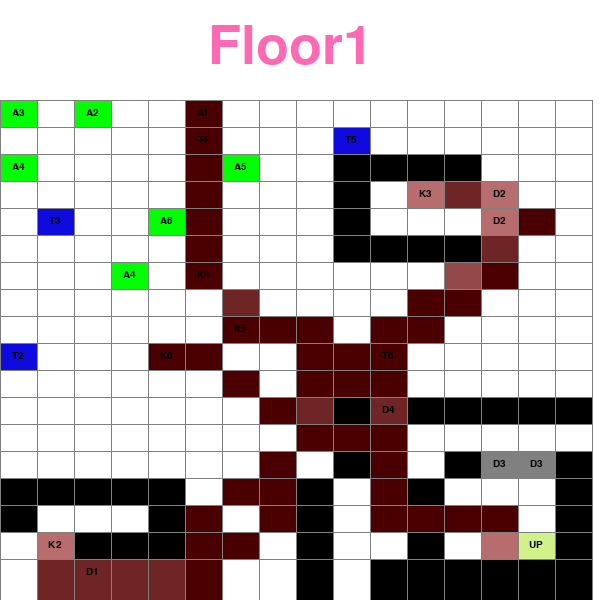
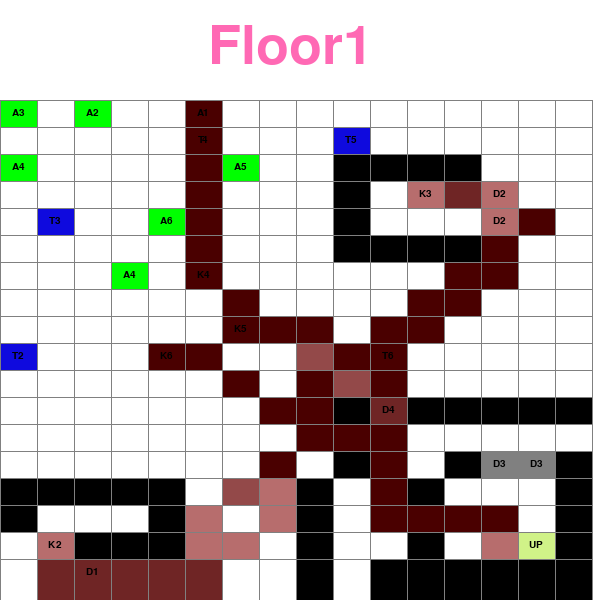
agents behaviors completion

diff --git a/level4.py b/level4.py
@@ -737,11 +737,14 @@ def define_target(agent, grid):
                             target = (grid[k][i][j])
                             return target
     
-def get_all_path(agent_list, path_list, main_path, grid, collected_key, lim):
+def get_all_path(agent_list, path_list, main_path, grid, collected_key):
     fake_key = []
     agent_cur_pos = []
-    save_path = main_path
-    
+
+    save_path = []
+    for pos in main_path:
+        save_path.append(pos)
+
     for agent in agent_list:
         tmp_path = []
         tmp_path.append(agent)
@@ -750,8 +753,13 @@ def get_all_path(agent_list, path_list, main_path, grid, collected_key, lim):
 
     end = main_path[-1]
 
-    k = 0
     i = 1
+    k = 0
+    check = False
+    h = []
+    for agent in agent_list:
+        h.append(0)
+
     while main_path[i - 1] != end:
         j = 0
         main_path[i].neighbors(grid, collected_key, False)
@@ -759,28 +767,37 @@ def get_all_path(agent_list, path_list, main_path, grid, collected_key, lim):
             if j == 0:
                 if main_path[i] in agent_cur_pos:
                     path.append(path[i - 1])
-                    main_path.insert(i, main_path[i])
+                    main_path.insert(i, main_path[i - 1])
                     k += 1
                 else:
                     path.append(main_path[i])
                     agent_cur_pos[j] = main_path[i]
+                    k = 0
             else:
                 agent_cur_pos[j].neighbors_check_agent(grid, fake_key, True, agent_cur_pos)
-                tmp_neighbor = random.choice(agent_cur_pos[j].neighbor)
-                if tmp_neighbor in main_path[i].neighbor or tmp_neighbor == main_path[i] or tmp_neighbor is None:
+                if len(agent_cur_pos[j].neighbor) != 0:
+                    h[j] = 0
+                    tmp_neighbor = random.choice(agent_cur_pos[j].neighbor)
+                    if tmp_neighbor in main_path[i].neighbor or tmp_neighbor == main_path[i] or tmp_neighbor is None:
+                        path.append(path[i - 1])
+                    else:
+                        path.append(tmp_neighbor)
+                        agent_cur_pos[j] = tmp_neighbor
+                else: 
                     path.append(path[i - 1])
-                else:
-                    path.append(tmp_neighbor)
-                    agent_cur_pos[j] = tmp_neighbor
+                    h[j] += 1
             j += 1
         i += 1
-        if k >= 1000: 
-            if lim < 100:
-                path_list.clear
-                get_all_path(agent_list, path_list, save_path, grid, collected_key)
-            else:
-                break
-
+        if k > 10 or h[j - 1] > 10:
+            check = True
+            break
+    
+    if k > 10 or check == True:
+        path_list.clear
+        main_path.clear
+        for pos in save_path:
+            main_path.append(pos)
+        get_all_path(agent_list, path_list, main_path, grid, collected_key)
             
 
 '''
@@ -902,10 +919,9 @@ def main(window, width, height):
                 
                 
                 if path:            
-                    get_all_path(agent_list, path_list, path, grid,collected_key, 0)
                     # for path in path_list:
                     #     print (len(path))
-                    
+                    get_all_path(agent_list, path_list, path, grid,collected_key)
                     draw_path = []
                     path_num = []
                     for i in range(len(path_list[0]) - 1):
@@ -923,7 +939,7 @@ def main(window, width, height):
                         for path in path_list:
                             pygame.draw.rect(window, WHITE, fill_area_rect)
                             draw_update(window, grid, row, col, width, height, path[i].get_floor())
-                            pygame.time.delay(200)
+                            pygame.time.delay(1)
                             path[i].set_unvisible(j)
                             path[i].increment_visit_count()
                             path[i].set_heatmap_color()
@@ -933,8 +949,8 @@ def main(window, width, height):
                                     path[i + 1].set_path_color_aux()
                             j += 1
                             draw_update(window, grid, row, col, width, height, path[i].get_floor())
-                    
-                    
+                        
+                        
                     '''
                     i = 0
                     for coord in draw_path:
